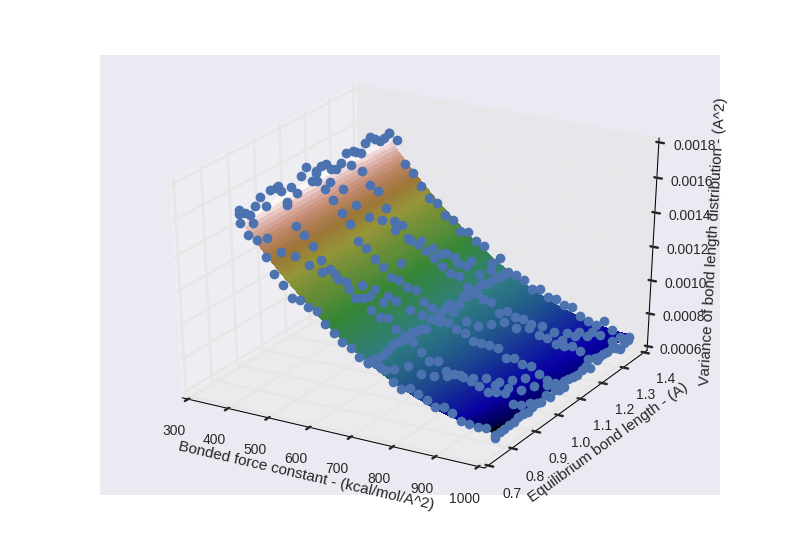
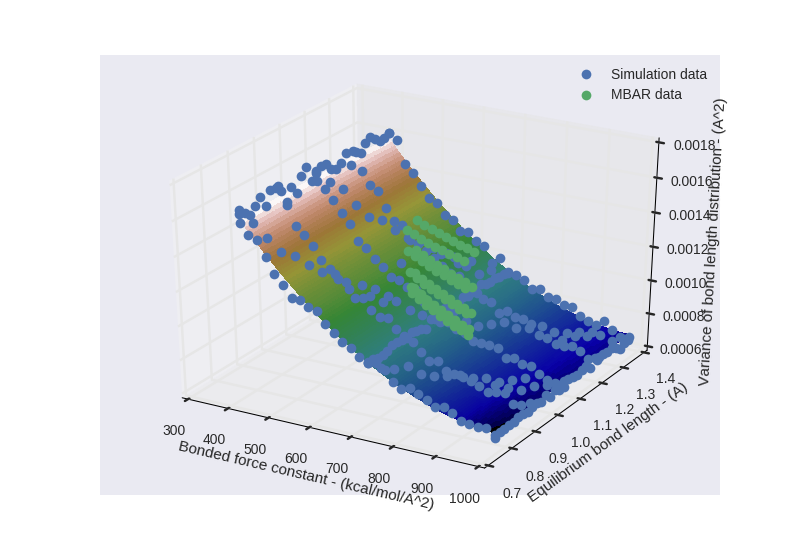
mbar plots

Changed region(s): [[0.5, 0.4018, 0.5938, 0.6182], [0.7188, 0.1236, 0.875, 0.1855]]

diff --git a/single-molecule-property-generation/graph_bl.py b/single-molecule-property-generation/graph_bl.py
@@ -141,21 +141,21 @@ zz_var_unc = np.apply_along_axis(np.var,0,zz_var_comp_boots)
 fg, ax = plt.subplots(subplot_kw=dict(projection='3d'))
 ls = LightSource(270, 45)
 rgb = ls.shade(zz_av, cmap=cm.gist_earth, vert_exag=0.1, blend_mode='soft')
-#rgbm = ls.shade(zz_avm, cmap=cm.jet, vert_exag=0.1, blend_mode='soft')
+rgbm = ls.shade(zz_avm, cmap=cm.jet, vert_exag=0.1, blend_mode='soft')
 #heatmap = ax.pcolor(zz_av, cmap=rgb)                  
 #plt.colorbar(mappable=heatmap)    # put the major ticks at the middle of each cell
 surf = ax.plot_surface(xx, yy, zz_av, rstride=1, cstride=1, facecolors=rgb,
                        linewidth=0, antialiased=False, shade=False)
-#surf1 = ax.plot_surface(xxm, yym, zz_avm, rstride=1, cstride=1, facecolors=rgbm,
-#                       linewidth=0, antialiased=False, shade=False)
+surf1 = ax.plot_surface(xxm, yym, zz_avm, rstride=1, cstride=1, facecolors=rgbm,
+                        linewidth=0, antialiased=False, shade=False)
 ax.set_xlabel('Bonded force constant - (kcal/mol/A^2)')
 ax.set_ylabel('Equilibrium bond length - (A)')
 ax.set_zlabel('Average of bond length distribution - (A)')
 ax.plot3D(x_av, y_av, z_av, "o",label="Simulation data")
-#ax.plot3D(x_avm,y_avm,z_avm,"o",label="MBAR data")
-ax.set_xlim([x_avm.min(),x_avm.max()])
-ax.set_ylim([y_avm.min(),y_avm.max()])
-ax.set_zlim([z_avm.min(),z_avm.max()])
+ax.plot3D(x_avm,y_avm,z_avm,"o",label="MBAR data")
+#ax.set_xlim([x_avm.min(),x_avm.max()])
+#ax.set_ylim([y_avm.min(),y_avm.max()])
+#ax.set_zlim([z_avm.min(),z_avm.max()])
 ax.legend()
 #for i in np.arange(0, len(x_av)):
 #    ax.plot([x_av[i],x_av[i]], [y_av[i],y_av[i]], [z_av[i]-z_var[i], z_av[i]+z_var[i]], marker="_")
@@ -201,19 +201,22 @@ plt.savefig('bond_length_average_vs_k_length_w_fit_MBAR.png')
 fg, ax = plt.subplots(subplot_kw=dict(projection='3d'))
 ls = LightSource(270, 45)
 rgb = ls.shade(zz_var, cmap=cm.gist_earth, vert_exag=0.1, blend_mode='soft')
+rgb1 = ls.shade(zz_var, cmap=cm.jet, vert_exag=0.1, blend_mode='soft')
 surf = ax.plot_surface(xx, yy, zz_var,cmap=cm.gist_earth, rstride=1, cstride=1, facecolors=rgb,
                        linewidth=0, antialiased=False, shade=False)
-#fg.colorbar(surf, shrink=0.5, aspect=5)
+surf1 =  ax.plot_surface(xxm, yym, zz_varm,cmap=cm.gist_earth, rstride=1, cstride=1, facecolors=rgb1,
+                         linewidth=0, antialiased=False, shade=False)
 ax.set_xlabel('Bonded force constant - (kcal/mol/A^2)')
 ax.set_ylabel('Equilibrium bond length - (A)')
 ax.set_zlabel('Variance of bond length distribution - (A^2)')
-ax.plot3D(x_var, y_var, z_var, "o")
+ax.plot3D(x_var, y_var, z_var, "o",label="Simulation data")
+ax.plot3D(x_varm, y_varm, z_varm, "o",label="MBAR data")
+ax.legend()
+#for i in np.arange(0, len(x_av)):
+#    ax.plot([x_var[i],x_var[i]], [y_var[i],y_var[i]], [z_var[i]-z_var_var[i], z_var[i]+z_var_var[i]], marker="_")
 
-for i in np.arange(0, len(x_av)):
-    ax.plot([x_var[i],x_var[i]], [y_var[i],y_var[i]], [z_var[i]-z_var_var[i], z_var[i]+z_var_var[i]], marker="_")
-
-for i in np.arange(0, len(xx_arr)):
-    ax.plot([xx_arr[i],xx_arr[i]], [yy_arr[i],yy_arr[i]], zs=[zz_var_comp_arr[i]-zz_var_unc_arr[i],zz_var_comp_arr[i]+zz_var_unc_arr[i]],marker="_")
+#for i in np.arange(0, len(xx_arr)):
+#    ax.plot([xx_arr[i],xx_arr[i]], [yy_arr[i],yy_arr[i]], zs=[zz_var_comp_arr[i]-zz_var_unc_arr[i],zz_var_comp_arr[i]+zz_var_unc_arr[i]],marker="_")
 
 fg.canvas.draw()
 plt.savefig('bond_length_variance_vs_k_length_w_fit.png')
